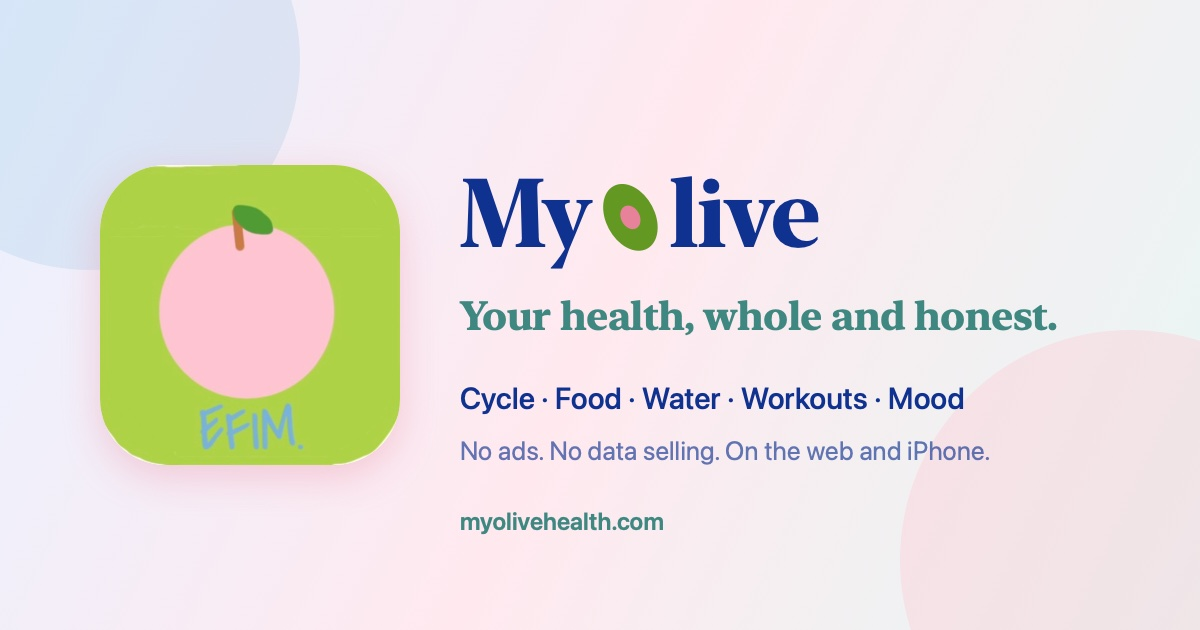
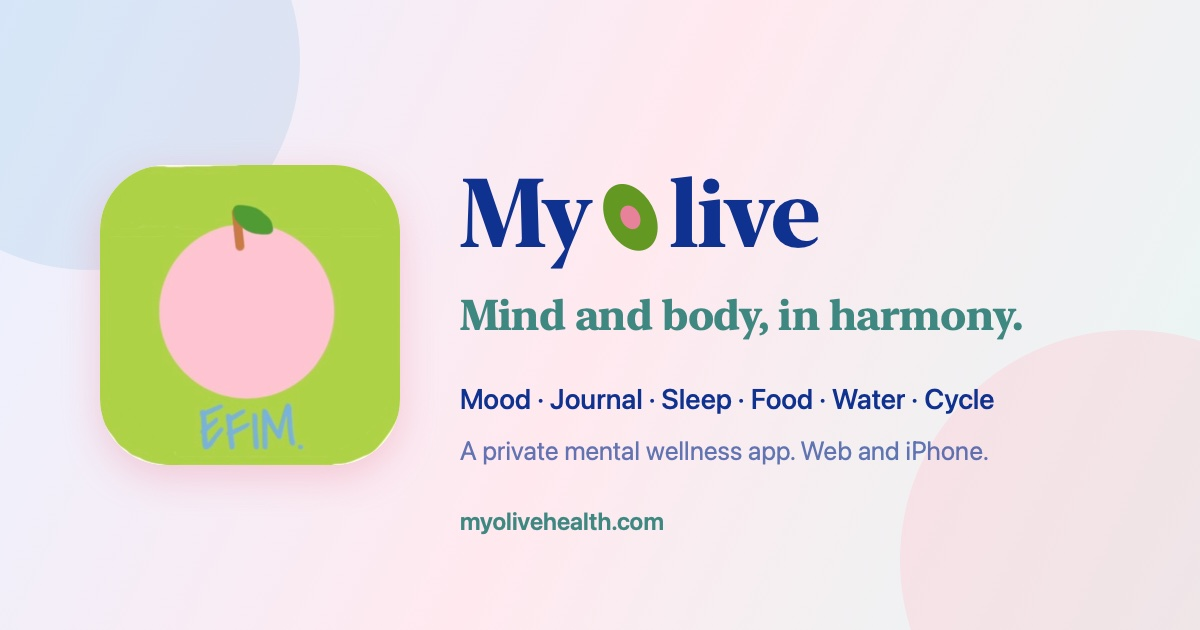
Reposition MyOlive as a holistic mental wellness app
Home page leads with mind and body: new title and description, "Mind and
body, in harmony.", a "How it works" section (check in with your mind,
care for your body, see how they connect), features reordered with mood
and journal, weekly check-ins, breathing and affirmations first, and a
care note pointing to 988. Preview card, structured data and the About
description follow the same message.

Changed region(s): [[0.37, 0.4524, 0.8942, 0.5429], [0.37, 0.6032, 0.8325, 0.6635], [0.37, 0.6937, 0.8325, 0.754]]

diff --git a/index.html b/index.html
@@ -4,9 +4,9 @@
 <head>
   <meta charset="UTF-8" />
   <meta name="viewport" content="width=device-width, initial-scale=1.0" />
-  <title>MyOlive: Private Cycle, Food, Water &amp; Mood Tracker</title>
+  <title>MyOlive: Holistic Mental Wellness App for Mind &amp; Body</title>
   <meta name="description"
-    content="Track your cycle, food, water, workouts, and mood in one calm app, in your browser and on iPhone. No ads, no data selling, no judgment." />
+    content="A holistic mental wellness app connecting your mood with sleep, food, water, movement, and your cycle. Journal, check in, and grow in one private place." />
   <link rel="icon" type="image/png" sizes="16x16" href="/image_values/favicons/favicon-16x16.png" />
   <link rel="icon" type="image/png" sizes="32x32" href="/image_values/favicons/favicon-32x32.png" />
   <link rel="icon" type="image/png" sizes="48x48" href="/image_values/favicons/favicon-48x48.png" />
@@ -17,13 +17,13 @@
   <!-- Link previews (iMessage, Reddit, social sites) -->
   <meta property="og:type" content="website" />
   <meta property="og:site_name" content="MyOlive" />
-  <meta property="og:title" content="MyOlive: Private Cycle, Food, Water &amp; Mood Tracker" />
-  <meta property="og:description" content="Track your cycle, food, water, workouts, and mood in one calm app, in your browser and on iPhone. No ads, no data selling, no judgment." />
+  <meta property="og:title" content="MyOlive: Holistic Mental Wellness App for Mind &amp; Body" />
+  <meta property="og:description" content="A holistic mental wellness app connecting your mood with sleep, food, water, movement, and your cycle. Journal, check in, and grow in one private place." />
   <meta property="og:url" content="https://myolivehealth.com/" />
   <meta property="og:image" content="https://myolivehealth.com/image_values/og-card.jpg" />
   <meta property="og:image:width" content="1200" />
   <meta property="og:image:height" content="630" />
-  <meta property="og:image:alt" content="MyOlive: Your health, whole and honest. Cycle, food, water, workouts and mood. No ads, no data selling." />
+  <meta property="og:image:alt" content="MyOlive: Mind and body, in harmony. A private mental wellness app for mood, journaling, sleep, food, water, and your cycle." />
   <meta name="twitter:card" content="summary_large_image" />
   <script type="application/ld+json">
   {
@@ -31,7 +31,7 @@
     "@type": "WebApplication",
     "name": "MyOlive",
     "url": "https://app.myolivehealth.com",
-    "description": "A private wellness tracker for your cycle, food, water, workouts, and mood, in your browser and on iPhone. No ads and no data selling.",
+    "description": "A holistic mental wellness app that connects your mood, journal, and weekly check-ins with sleep, movement, food, water, and your cycle, in your browser and on iPhone. No ads and no data selling.",
     "applicationCategory": "HealthApplication",
     "operatingSystem": "Web, iOS",
     "image": "https://myolivehealth.com/image_values/og-card.jpg",
@@ -545,6 +545,23 @@
       line-height: 1.3;
     }
 
+    /* How it works: three steps across, stacked on phones. */
+    .connect-grid {
+      display: grid;
+      grid-template-columns: repeat(3, minmax(0, 1fr));
+      gap: 20px;
+    }
+
+    .care-note {
+      font-family: 'Helvetica Neue', Arial, sans-serif;
+      font-size: 13px;
+      color: var(--ink-body);
+      text-align: center;
+      max-width: 620px;
+      margin: 36px auto 0;
+      line-height: 1.6;
+    }
+
     .feature-desc {
       font-family: 'Helvetica Neue', Arial, sans-serif;
       font-size: 13px;
@@ -841,7 +858,7 @@
       }
 
       .floating-badge.top-right {
-        right: -20px;
+        right: 4px;
         top: -20px;
       }
 
@@ -854,6 +871,7 @@
         padding: 72px 24px;
       }
 
+      .connect-grid,
       .features-grid {
         grid-template-columns: 1fr;
         gap: 12px;
@@ -917,6 +935,7 @@
       <span class="nav-name">My<span class="olive-o">O<svg aria-hidden="true" viewBox="0 0 24 34"><g transform="rotate(-28 12 17)"><ellipse cx="12" cy="17" rx="11" ry="16" fill="#639922"/><ellipse cx="12" cy="17" rx="4.2" ry="5.6" fill="#e8829a"/></g></svg></span>live</span>
     </a>
     <ul class="nav-links">
+      <li><a href="#how">How it works</a></li>
       <li><a href="#features">Features</a></li>
       <li><a href="#philosophy">Philosophy</a></li>
       <li><a href="/support.html">Support</a></li>
@@ -932,10 +951,11 @@
     <div class="hero-blob-2"></div>
     <div class="hero-inner">
       <div class="hero-text">
-        <p class="hero-eyebrow">Wellness, your way</p>
-        <h1>Your health,<br /><em>whole and honest.</em></h1>
-        <p class="hero-sub">MyOlive brings your cycle, workouts, nutrition, and hydration into one calm, personal space,
-          in your browser and on iPhone, with one account. No noise. No judgment. Just you.</p>
+        <p class="hero-eyebrow">Mental wellness, whole-person</p>
+        <h1>Mind and body,<br /><em>in harmony.</em></h1>
+        <p class="hero-sub">MyOlive is a mental wellness app that brings your mood, journal, and check-ins together with
+          sleep, movement, food, water, and your cycle, so you can see how they shape each other. One calm, private
+          place for working on yourself, in your browser and on iPhone.</p>
         <div class="hero-actions">
           <a href="https://app.myolivehealth.com" class="btn-primary">Open MyOlive on the web →</a>
           <a href="#download" class="btn-small">
@@ -945,7 +965,7 @@
             </svg>
             Get the iPhone app
           </a>
-          <a href="#features" class="btn-secondary">See what's inside</a>
+          <a href="#how" class="btn-secondary">See how it works</a>
         </div>
       </div>
 
@@ -956,15 +976,45 @@
             src="/image_values/olive-app-icon-512.jpg"
             class="app-icon-large" alt="MyOlive app" />
           <div class="floating-badge top-right">
-            <div class="badge-emoji">🌙</div>
-            <div class="badge-label">Cycle day</div>
-            <div class="badge-value">Day 14</div>
+            <div class="badge-emoji">🌿</div>
+            <div class="badge-label">Mood today</div>
+            <div class="badge-value">Calm</div>
           </div>
           <div class="floating-badge bottom-left">
-            <div class="badge-emoji">💧</div>
-            <div class="badge-label">Hydration</div>
-            <div class="badge-value">75% today</div>
+            <div class="badge-emoji">🌙</div>
+            <div class="badge-label">Sleep</div>
+            <div class="badge-value">7.5 hours</div>
           </div>
+        </div>
+      </div>
+    </div>
+  </section>
+
+  <div class="gradient-divider"></div>
+
+  <!-- HOW IT WORKS -->
+  <section class="features" id="how">
+    <div class="features-inner">
+      <p class="section-eyebrow">How MyOlive works</p>
+      <h2 class="section-title">Everything that shapes how you feel, in one place.</h2>
+      <div class="connect-grid">
+        <div class="feature-card">
+          <div class="feature-icon">🧠</div>
+          <h3 class="feature-title">Check in with your mind</h3>
+          <p class="feature-desc">Log how you feel and what's behind it, journal with words, voice, or video, take a
+            weekly check-in, and breathe through the hard moments.</p>
+        </div>
+        <div class="feature-card">
+          <div class="feature-icon">🌿</div>
+          <h3 class="feature-title">Care for your body</h3>
+          <p class="feature-desc">Track food, water, movement, your cycle, and medications right alongside your mood,
+            instead of in five different apps.</p>
+        </div>
+        <div class="feature-card">
+          <div class="feature-icon">🔗</div>
+          <h3 class="feature-title">See how they connect</h3>
+          <p class="feature-desc">Notice the patterns between how you live and how you feel. On iPhone, MyOlive compares
+            your sleep, steps, and heart-rate variability from Apple Health with your mood.</p>
         </div>
       </div>
     </div>
@@ -976,14 +1026,41 @@
   <section class="features" id="features">
     <div class="features-inner">
       <p class="section-eyebrow">What's inside</p>
-      <h2 class="section-title">Everything you want to track, nothing you don't.</h2>
+      <h2 class="section-title">One place for working on yourself.</h2>
       <div class="features-grid">
 
         <div class="feature-card">
-          <div class="feature-icon">🧠</div>
-          <h3 class="feature-title">Mental health</h3>
-          <p class="feature-desc">Improve your mental health with diary writing, video logs, voice memos and track your
-            well-being through weekly emotional check in surveys.</p>
+          <div class="feature-icon">📓</div>
+          <h3 class="feature-title">Mood &amp; journal</h3>
+          <p class="feature-desc">Log how you feel and what contributed, then write, record a voice memo, or film a
+            video. A private space to process your day.</p>
+        </div>
+
+        <div class="feature-card">
+          <div class="feature-icon">🌤</div>
+          <h3 class="feature-title">Weekly check-ins</h3>
+          <p class="feature-desc">A two-minute check-in on your mood, sleep, movement, and stress, so you can see how
+            you're really doing over time.</p>
+        </div>
+
+        <div class="feature-card">
+          <div class="feature-icon">🌸</div>
+          <h3 class="feature-title">Guided breathing</h3>
+          <p class="feature-desc">Box breathing and 4-7-8 breathing to slow things down when everything feels like
+            too much.</p>
+        </div>
+
+        <div class="feature-card">
+          <div class="feature-icon">💬</div>
+          <h3 class="feature-title">Affirmations</h3>
+          <p class="feature-desc">Start the day with words that steady you, including ones you write yourself.</p>
+        </div>
+
+        <div class="feature-card">
+          <div class="feature-icon">🌙</div>
+          <h3 class="feature-title">Cycle tracking</h3>
+          <p class="feature-desc">Log your period and symptoms and see your cycle next to your mood and energy, with
+            clear predictions and no selling your data.</p>
         </div>
 
         <div class="feature-card">
@@ -995,30 +1072,23 @@
 
         <div class="feature-card">
           <div class="feature-icon">💧</div>
-          <h3 class="feature-title">Hydration reminders</h3>
-          <p class="feature-desc">Set daily water goals and get gentle nudges throughout the day. Small habits, real
+          <h3 class="feature-title">Hydration</h3>
+          <p class="feature-desc">Set a daily water goal and get gentle nudges through the day. Small habits, real
             difference.</p>
         </div>
 
         <div class="feature-card">
-          <div class="feature-icon">🌙</div>
-          <h3 class="feature-title">Cycle tracking</h3>
-          <p class="feature-desc">Log your period, track symptoms, and understand your cycle with clear predictions and
-            no algorithms selling your data.</p>
-        </div>
-
-        <div class="feature-card">
           <div class="feature-icon">🏋</div>
-          <h3 class="feature-title">Workout logging</h3>
-          <p class="feature-desc">Build and log workouts with sets, reps, and cardio. Track progress over time with a
-            personal exercise library.</p>
+          <h3 class="feature-title">Movement</h3>
+          <p class="feature-desc">Build and run workouts, keep your streak, and see how moving more changes how you
+            feel.</p>
         </div>
 
         <div class="feature-card">
           <div class="feature-icon">💊</div>
-          <h3 class="feature-title">Medication & supplement reminders</h3>
-          <p class="feature-desc">Never miss a dose. Set custom reminders for medications, vitamins, supplements, and
-            birth control, with a history log of what you've actually taken.</p>
+          <h3 class="feature-title">Medication &amp; supplement reminders</h3>
+          <p class="feature-desc">Set reminders for medications, vitamins, supplements, and birth control, with a
+            history of what you've actually taken.</p>
         </div>
 
         <div class="feature-card">
@@ -1029,20 +1099,21 @@
         </div>
 
         <div class="feature-card">
+          <div class="feature-icon">📷</div>
+          <h3 class="feature-title">Barcode scanning</h3>
+          <p class="feature-desc">Scan a food or drink to log it instantly, nutrition facts included. MyOlive even
+            catches water bottles and logs them as hydration.</p>
+        </div>
+
+        <div class="feature-card">
           <div class="feature-icon">🔒</div>
           <h3 class="feature-title">Private by design</h3>
           <p class="feature-desc">Your health data stays yours. No ads. No selling. No sharing. Encrypted in transit,
             always.</p>
         </div>
-
-        <div class="feature-card">
-          <div class="feature-icon">📷</div>
-          <h3 class="feature-title">Barcode scanning</h3>
-          <p class="feature-desc">Scan a food or drink to log it instantly, nutrition facts included. MyOlive even
-            catches water bottles and logs them as hydration automatically.</p>
-        </div>
-        
       </div>
+      <p class="care-note">MyOlive supports your wellbeing; it isn't a substitute for professional care. If you're in
+        crisis in the US, call or text <strong>988</strong>, or call 911 in an emergency.</p>
     </div>
   </section>
 
@@ -1087,8 +1158,8 @@
       <img
         src="/image_values/olive-app-icon-512.jpg"
         class="cta-logo" alt="MyOlive" />
-      <h2>Ready to meet MyOlive?</h2>
-      <p>A wellness app that respects you; your data, your pace, and your definition of healthy. Start in your
+      <h2>Ready to feel more whole?</h2>
+      <p>A mental wellness app that treats you as a whole person: your mind, your body, your pace. Start in your
         browser today, and pick up where you left off on iPhone.</p>
       <a href="https://app.myolivehealth.com" class="btn-green">Open MyOlive on the web →</a>
       <div class="cta-ios">

diff --git a/about.html b/about.html
@@ -11,18 +11,18 @@
   <link rel="manifest" href="/image_values/favicons/site.webmanifest" />
   <title>MyOlive: About DLM Studios LLC</title>
   <meta name="description"
-    content="MyOlive is made by DLM Studios LLC, an independent Connecticut software company building privacy-respecting health and wellness apps for the web and iOS." />
+    content="MyOlive is made by DLM Studios LLC, an independent Connecticut software company building privacy-respecting mental wellness apps for the web and iOS." />
   <link rel="canonical" href="https://myolivehealth.com/about.html" />
   <!-- Link previews (iMessage, Reddit, social sites) -->
   <meta property="og:type" content="website" />
   <meta property="og:site_name" content="MyOlive" />
   <meta property="og:title" content="MyOlive: About DLM Studios LLC" />
-  <meta property="og:description" content="MyOlive is made by DLM Studios LLC, an independent Connecticut software company building privacy-respecting health and wellness apps for the web and iOS." />
+  <meta property="og:description" content="MyOlive is made by DLM Studios LLC, an independent Connecticut software company building privacy-respecting mental wellness apps for the web and iOS." />
   <meta property="og:url" content="https://myolivehealth.com/about.html" />
   <meta property="og:image" content="https://myolivehealth.com/image_values/og-card.jpg" />
   <meta property="og:image:width" content="1200" />
   <meta property="og:image:height" content="630" />
-  <meta property="og:image:alt" content="MyOlive: Your health, whole and honest. Cycle, food, water, workouts and mood. No ads, no data selling." />
+  <meta property="og:image:alt" content="MyOlive: Mind and body, in harmony. A private mental wellness app for mood, journaling, sleep, food, water, and your cycle." />
   <meta name="twitter:card" content="summary_large_image" />
   <script type="application/ld+json">
   {

diff --git a/privacy-policy.html b/privacy-policy.html
@@ -23,7 +23,7 @@
   <meta property="og:image" content="https://myolivehealth.com/image_values/og-card.jpg" />
   <meta property="og:image:width" content="1200" />
   <meta property="og:image:height" content="630" />
-  <meta property="og:image:alt" content="MyOlive: Your health, whole and honest. Cycle, food, water, workouts and mood. No ads, no data selling." />
+  <meta property="og:image:alt" content="MyOlive: Mind and body, in harmony. A private mental wellness app for mood, journaling, sleep, food, water, and your cycle." />
   <meta name="twitter:card" content="summary_large_image" />
   <script type="application/ld+json">
   {

diff --git a/support.html b/support.html
@@ -22,7 +22,7 @@
   <meta property="og:image" content="https://myolivehealth.com/image_values/og-card.jpg" />
   <meta property="og:image:width" content="1200" />
   <meta property="og:image:height" content="630" />
-  <meta property="og:image:alt" content="MyOlive: Your health, whole and honest. Cycle, food, water, workouts and mood. No ads, no data selling." />
+  <meta property="og:image:alt" content="MyOlive: Mind and body, in harmony. A private mental wellness app for mood, journaling, sleep, food, water, and your cycle." />
   <meta name="twitter:card" content="summary_large_image" />
   <script type="application/ld+json">
   {

diff --git a/terms.html b/terms.html
@@ -22,7 +22,7 @@
   <meta property="og:image" content="https://myolivehealth.com/image_values/og-card.jpg" />
   <meta property="og:image:width" content="1200" />
   <meta property="og:image:height" content="630" />
-  <meta property="og:image:alt" content="MyOlive: Your health, whole and honest. Cycle, food, water, workouts and mood. No ads, no data selling." />
+  <meta property="og:image:alt" content="MyOlive: Mind and body, in harmony. A private mental wellness app for mood, journaling, sleep, food, water, and your cycle." />
   <meta name="twitter:card" content="summary_large_image" />
   <script type="application/ld+json">
   {
